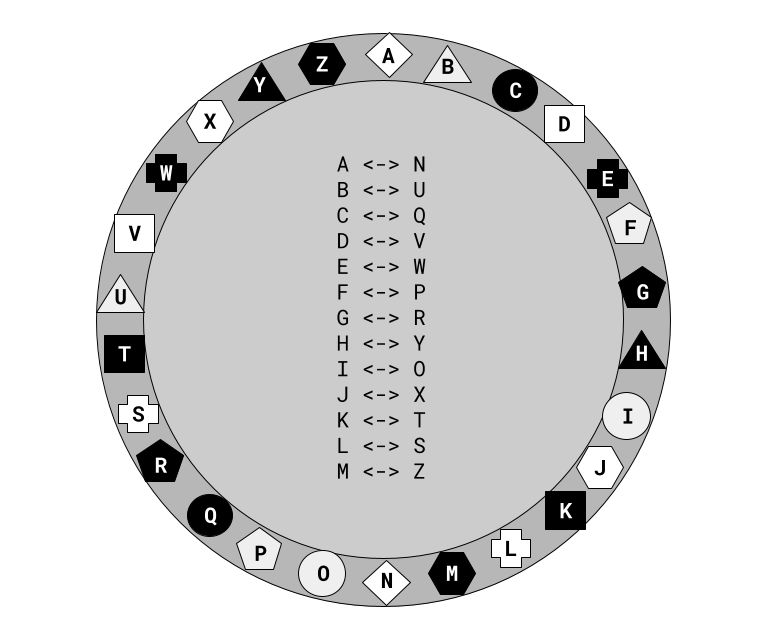
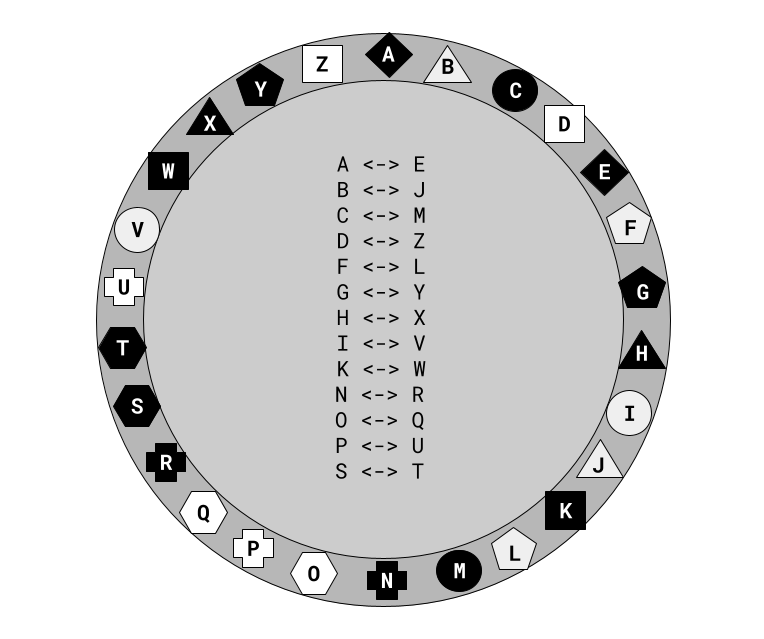
update reflector images

diff --git a/posts/week3.md b/posts/week3.md
@@ -1,27 +1,26 @@
 Incoming message from Link:
-<orig>
+<!-- Translated message
 HETSU
-I DISCOVERED MORE INFORMATION ABOUT THE MACHINE WE FOUND
-THE ADDITIONAL GEARS ARE LETTER SCRAMBLERS
-SO FAR WE HAVE LEARNED ABOUT THE PLUGBOARD AND STATIC GEAR WHICH I AM NOW CALLING THE REFLECTOR
-THESE MECHANISMS CONTAINED ONLY ONE ALPHABET AND CREATED MAPPINGS BETWEEN LETTERS WITHIN THAT ALPHABET
-THIS ALLOWED FOR THIRTEEN DIFFERENT PAIRS OF LETTERS
-THE ROTARIES CONTAIN TWO SETS OF ALPHABETS ONE ON THE LEFT AND ONE ON THE RIGHT
-LETTERS ON THE LEFT ARE SCRAMBLED AND PAIRED WITH LETTERS ON THE RIGHT
-THIS MEANS YOU CAN GET TWO DIFFERENT MESSAGES DEPENDING IF YOU ARE MAPPING FROM RIGHT TO LEFT OR LEFT TO RIGHT
-IT LOOKS LIKE THE ROTARIES FORM A LOOP WITH THE REFLECTOR
+I HAVE GREAT NEWS ABOUT THE ENCRYPTION MACHINE
+AFTER MUCH EXPERIMENTATION I HAVE LEARNED THAT THE REMOVABLE ROTORS ARE ADDITIONAL LETTER SCRAMBLERS
+SO FAR WE HAVE LEARNED ABOUT THE PLUGBOARD AND THE REFLECTOR AND HOW THEY ARE ABLE TO SCRAMBLE MESSAGES
+THESE MECHANISMS CREATE A MAPPING BETWEEN BETWEEN LETTERS OF THE ALPHABET
+THIS ALLOWED FOR THIRTEEN DIFFERENT PAIRS OF LETTERS TO BE MAPPED AT THE SAME TIME
+THESE MECHANISMS ARE ALSO UNIDIRECTIONAL
+DESPITE THE DIRECTION OF THE INPUT IN THE FLOW DIAGRAM A PHRASE IS ALWAYS ENCRYPTED THE SAME
+THE REMOVABLE ROTARIES USE A BIDIRECTIONAL MAPPING
+EACH ROTOR HAS 2 DIFFERENT MAPPING ONE FOR LEFT TO RIGHT AND ONE FOR RIGHT TO LEFT
 THE LETTER PASSES FROM RIGHT TO LEFT THROUGH THE ROTARIES UNTIL IT REACHES THE REFLECTOR
 THEN IT TURNS AROUND IN THE REFLECTOR AND GOES BACK THROUGH THE ROTARIES LEFT TO RIGHT
 I HAVE A HELPFUL PICTURE TO EXPLAIN
 LETS TRY USING JUST ONE ROTARY FOR NOW
 I WILL SEND YOU THE LETTERS ON THE REFLECTOR FOLLOWED BY THE LETTERS ON THE ROTARY PLEASE USE THEM TO ENCRYPT OR DECRYPT OUR FUTURE MESSAGES
 LINK
-<eom>
+-->
 
-[rotor-image](/link/to/rotor/image)
+![rotor-image](/link/to/rotor/image)
 
-<eom>
-
+OW|TI|RE|PN|AK|FU
 RINVKPUJBHEYQCXFMAZWGDTOLS
 <trans>
 JKWZG
